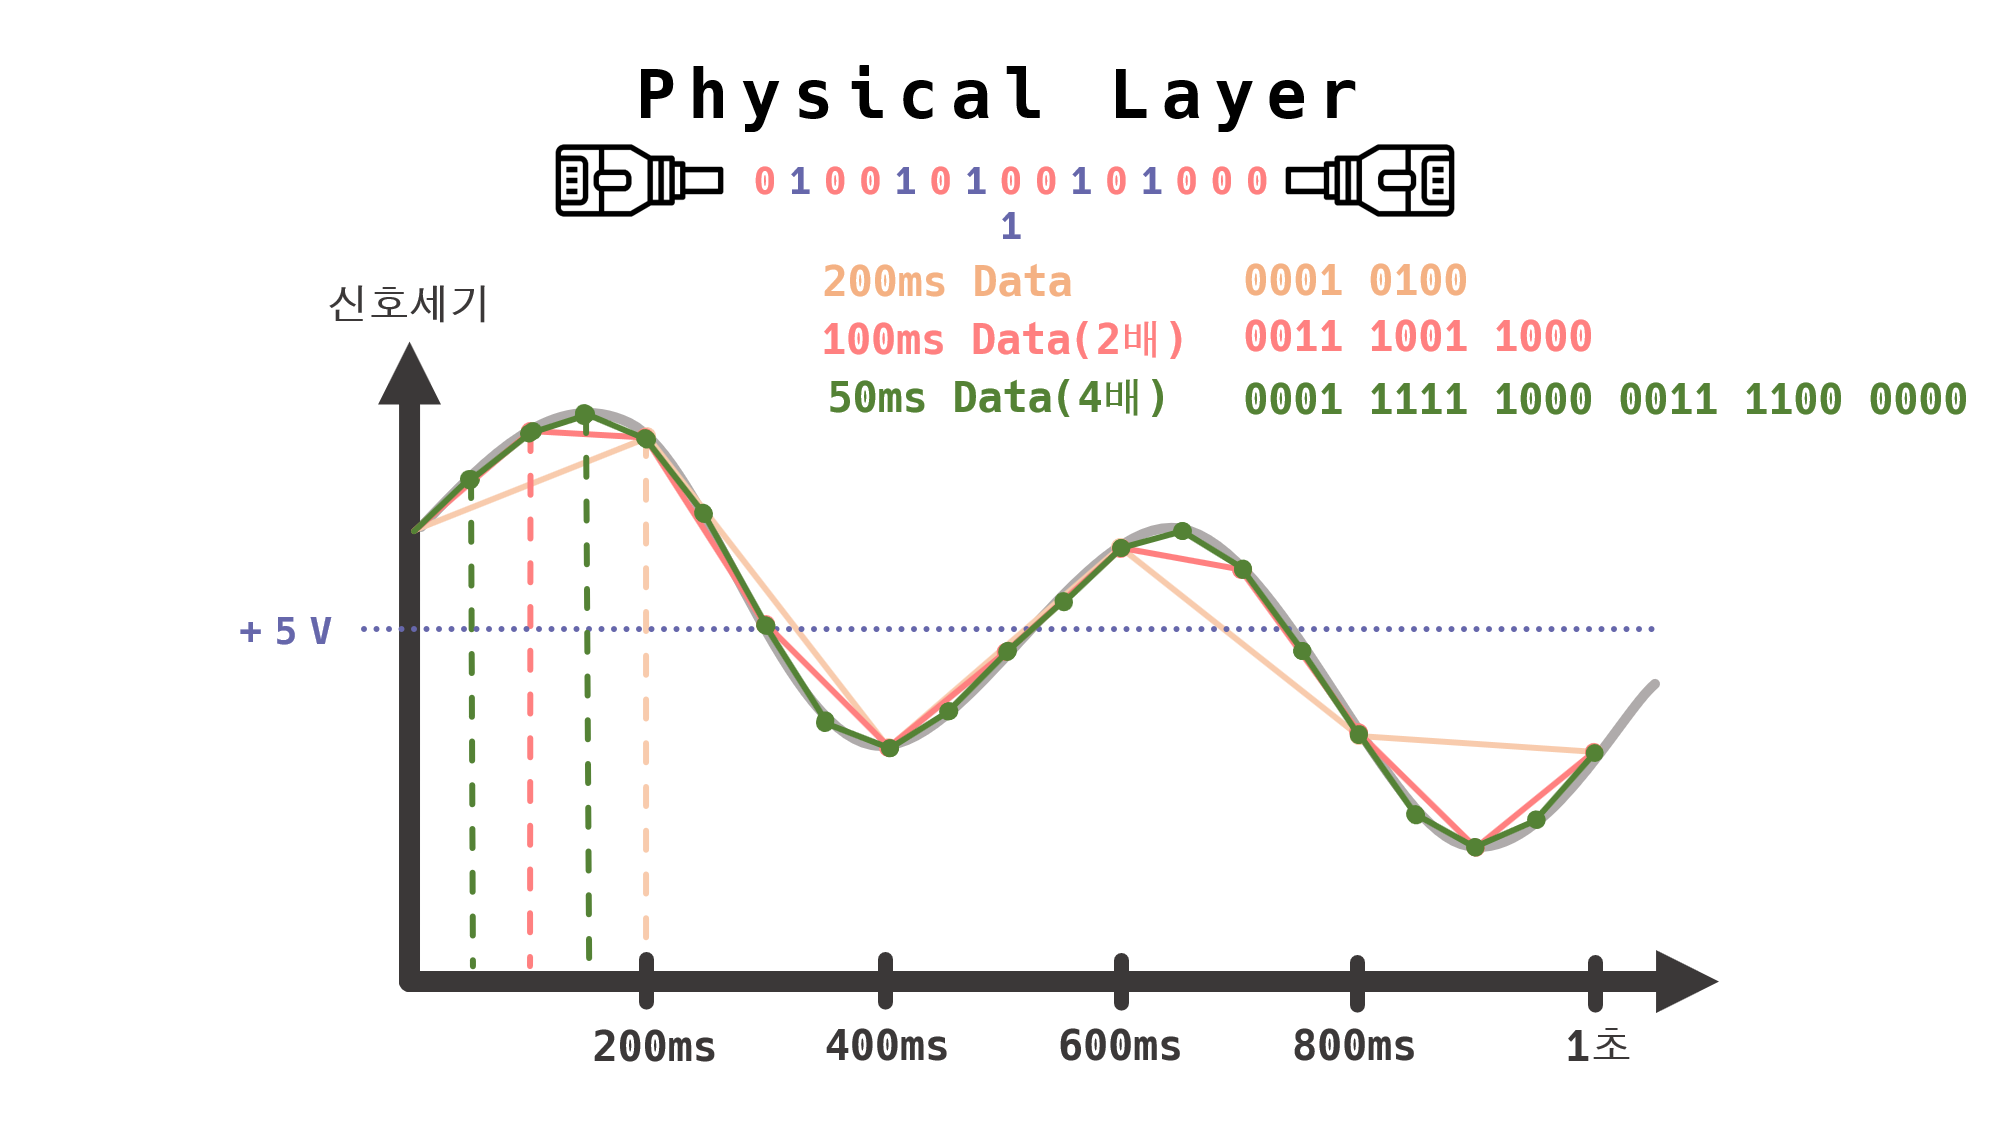
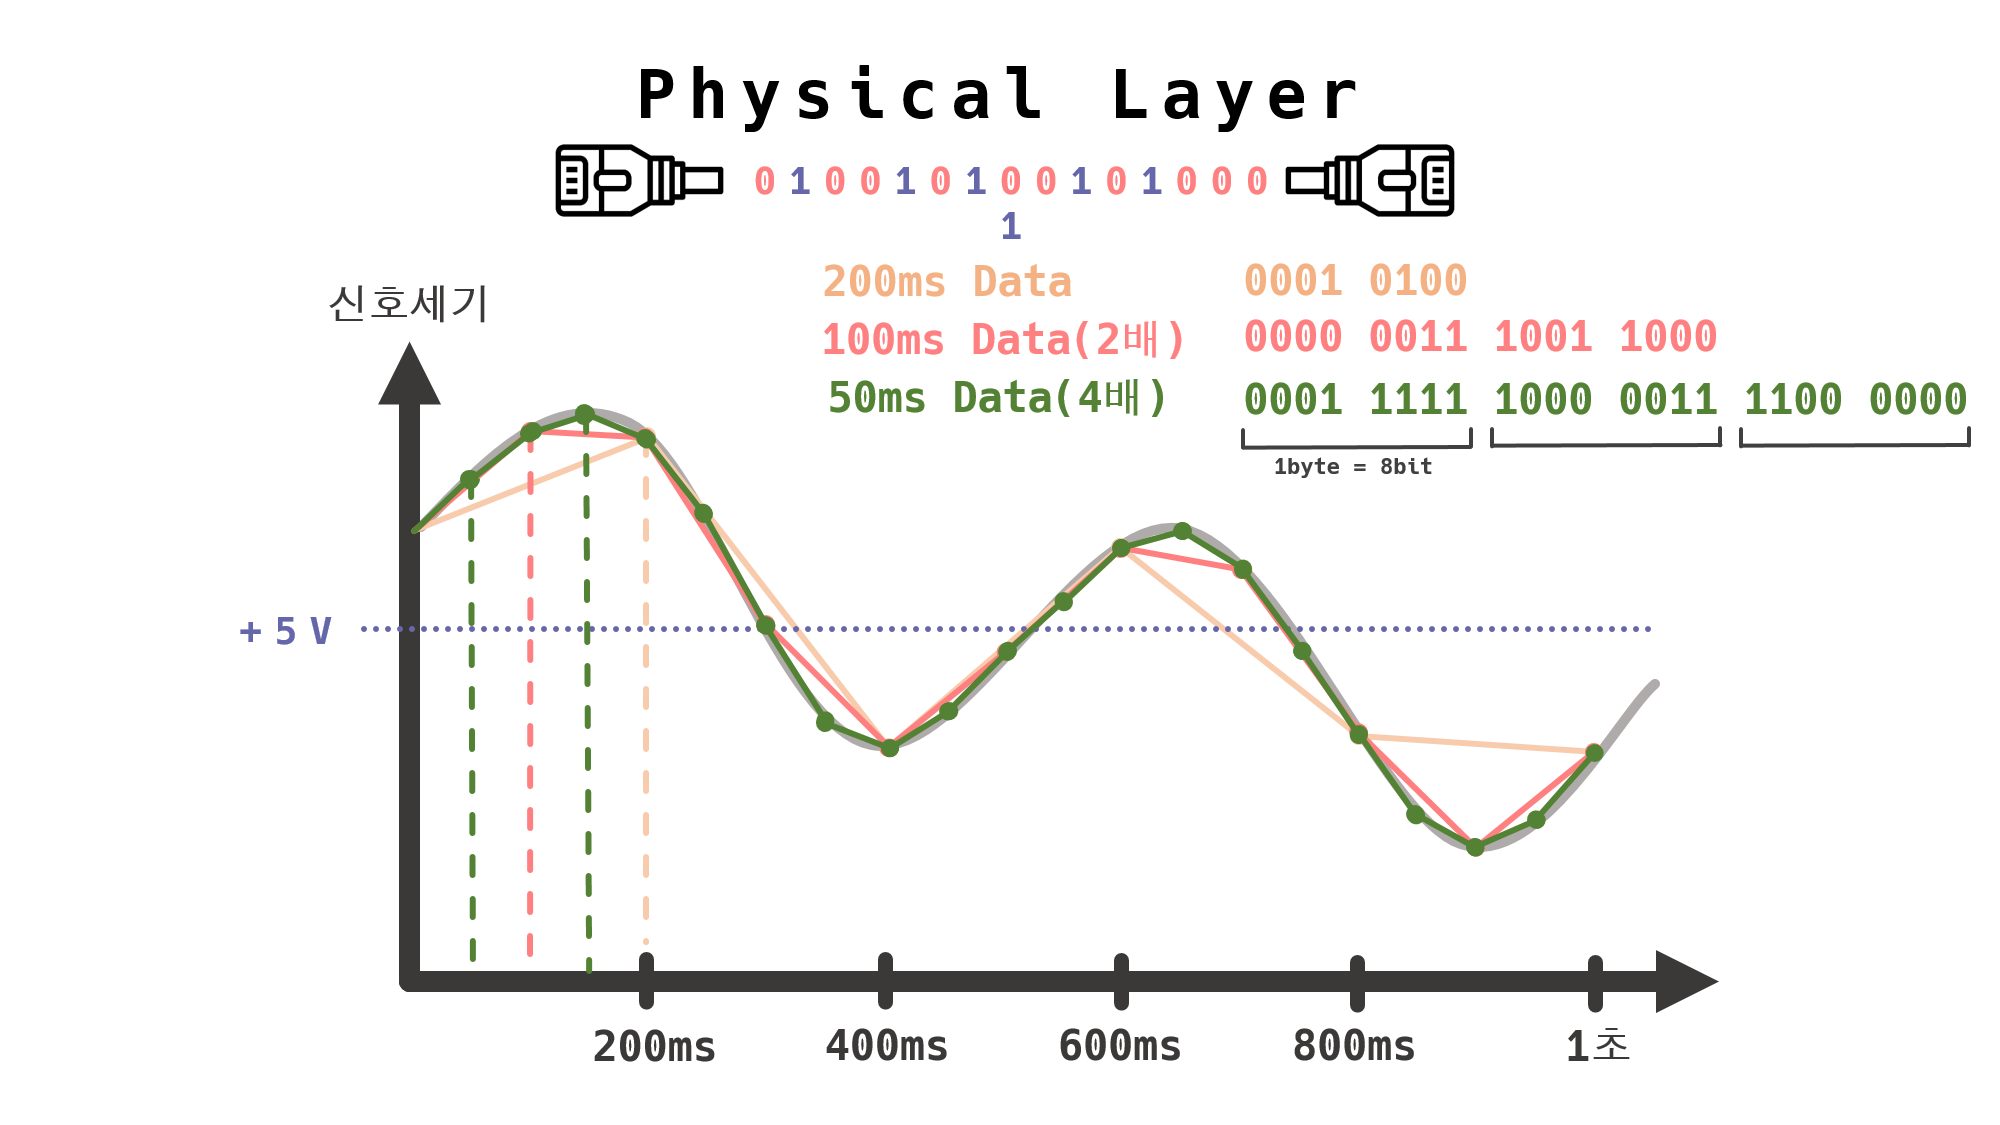
edit osi 7 layer physical layer

diff --git a/_posts/development/client/2023-03-02-osi-7-physical-layer.md b/_posts/development/client/2023-03-02-osi-7-physical-layer.md
@@ -54,6 +54,7 @@ image:
 
 - 우리나라의 허용범위 주파수는 `60Hz`이다.
 - 이유는 [우리나라 주파수는 왜 60Hz일까?](http://www.keaj.kr/news/articleView.html?idxno=3608){:target="_blank"} 자료를 참고해 주시길 바란다.
+  - 간단하게 설명하자면, 우리나라는 그 당시 미국의 영향을 많이 받아 미국 방식을 채택하게 된 것. 
 
 ### 잘못된 데이터 수신
 ![Problem](/assets/img/development/client/2023-03-02/problem_1.png){:.centered width="80%"}
@@ -66,22 +67,33 @@ image:
 
 ### 수직/수평선이 있는 전자기파
 ![Vertical Horizontal_Wave](/assets/img/development/client/2023-03-02/vertical_horizontal_wave.png){:.centered width="80%"}
-> “**그런데, 수직선과 수평선이 있는 전자기파는 항상 0~무한대 Hz의 주파수 범위를 갖는다???**”<br><br>
+> “**그런데, 수직선과 수평선이 있는 전자기파는 항상 0~무한대 Hz의 주파수 범위를 갖는다?**”<br><br>
 > “**수직선과 수평선이 있는 전자기파는 편파(polarized) 전자기파이며, 편파 전자기파는 진폭이 한 방향으로 고정되어 있고, 이러한 편파 전자기파는 하나의 평면에서 전파가 진행된다.**”<br>
 > “**따라서, 수직선과 수평선이 있는 전자기파의 주파수 범위는 항상 0 ~ 무한대(Hz)를 갖는다. 왜냐하면 편파 전자기파는 진폭이 한 방향으로 고정되어 있으며, 주파수는 전파의 진동수를 나타내기 때문이다.**”<br><br>
 > “**따라서, 수직선과 수평선이 있는 전자기파는 특정한 주파수 범위에서만 발생하는 것이 아니라, 전체 주파수 범위에서 발생할 수 있다.**”<br>
 
-- 따라서, 이러한 전기신호를 통과시킬 수 있는 전선은 없다.
+### 무한 vs 유한 전자기파
+![Vertical Horizontal_Wave](/assets/img/development/client/2023-03-02/difference_vertical_horizontal.png){:.centered width="80%"}
+- 위 내용을 나만의 해석을 통해 조금 더 쉽게 이해하자면...
+- 왼쪽 그래프에서는 `0`초에서 `0.1`초의 전압은 `0V`이기 때문에 전자기파가 생겨나지 않는다. 즉, `0Hz`의 주파수를 갖는다.
+- `0.1`초에서부터 `+5V` 이상의 수직적 전압이 발생하여 전자기파가 생겨났다.
+- 시간의 흐름에 따라 서서히 `증가` 또는 `감소`하는 것이 아니라 해당 시간에 `수직`으로 생겨난 전압이기 때문에 `0.1`초에는 **측정 불가한** `무한대의 Hz`를 갖는다. 
+- 오른쪽 그래프에서는 시간에 따라 서서히 전압이 `증가` 또는 `감소`하는 것을 볼 수 있다.
+- 따라서, 왼쪽 그래프는 시간이 변하지 않고 해당 시간에 수직적이고 무한한 전압이 생성되었기 때문에 **측정 불가한 `무한대의 Hz`를 갖는 전자기파**가 생성된다.
+- 오른쪽 그래프는 시간에 따라 변화하는 전압이 발생하므로 **측정 가능한 `유한대의 Hz`를 갖는 전자기파**가 생성된다.
+
+- 결론은, 이러한 `무한한 Hz`의 전기신호를 통과시킬 수 있는 전선은 없다.
 - 그렇다면 `0`과 `1`의 신호를 어떻게 전송해야 할까?
 
 ### 디지털 신호를 아날로그 신호로
 ![Digital to Analog](/assets/img/development/client/2023-03-02/digital_to_analog.png){:.centered width="80%"}
-> “**디지털 신호를 아날로그 신호로 바꿔서 전송해야 한다.**”<br>
+> “**디지털 신호를 아날로그 신호로 바꿔서 전송해야 한다.**”
 
 #### 아날로그 신호의 특징
 - 아날로그 신호는 끊김 없이 연속된 신호로 이루어져 있다.
 - 신호의 세기를 아주 정밀하게 표현이 가능하다.
 - 거리에 따라 신호의 세기가 약해지면서 결국 소멸되는 특징을 가지고 있다.
+- 전자기파의 스펙트럼을 통해 다양한 데이터들을 송/수신할 수 있게 되었다.
 
 #### 디지털 신호의 특징
 - 디지털 신호는 `1`로 표현하고 싶을 땐 특정 전압 이상을 가하고, `0`으로 표현하고 싶을 땐 특정 전압의 이하로 가해 표현한다.
@@ -95,10 +107,13 @@ image:
 
 ### 아날로그 신호의 데이터화
 ![Data Collection Graph](/assets/img/development/client/2023-03-02/data_collection_graph.png){:.centered width="80%"}
+> “**`1byte`**는 **`8bit`**이다.”
+
 - 위 그래프는 `1초` 동안 발생한 아날로그 신호를 디지털 신호로 해석한 그래프이다.
-- `1초`의 시간을 촘촘히 측정할 수 있게 된다면 
-- 즉, 조금 더 촘촘히 많은 데이터를 수집할 수 록 `아날로그` 데이터에 굉장히 가까워진다.
-- 아무리 `아날로그 신호`를 `디지털 신호`로 바꾸어도 어쩔 수 없이 데이터 왜곡은 생기기 마련이다.
+- 위 그래프에서 볼 수 있듯이 `200ms`는 `1btye`의 데이터를, `100ms`는 `2btye`의 데이터를, `50ms`는 `3btye`의 데이터를 수집할 수 있는 것을 볼 수 있다.
+- `1초`의 시간을 촘촘히 측정할 수 있게 된다면 더 많은 양의 데이터를 주고받을 수 있게 된다.
+- 또한, 조금 더 촘촘히 많은 데이터를 수집할 수 록 `아날로그` 데이터에 굉장히 가까워진다.
+- 하지만, 아무리 `아날로그 신호`를 `디지털 신호`로 바꾸어도 어쩔 수 없이 데이터 왜곡은 생기기 마련이다.
 
 #### 가정에서 많이 사용하는 CAT5.E Cable
 ![CAT.5E Cable](/assets/img/development/client/2023-03-02/cat5e_cable.png){:.centered width="80%"}

diff --git a/_posts/dailylog/routine/2023/04-april/2023-03-27-week-11th.md b/_posts/dailylog/routine/2023/04-april/2023-03-27-week-11th.md
@@ -26,7 +26,12 @@ image:
 - 어제 퇴근 후 이번 주 있을 발표자료 미비된 준비하고 아침에 출근 해서 마지막 미비된 부분을 수정하였다.
 
 # 2023-3-29
-# 2023-3-30
+![2023-03-29](/assets/img/daily/routine/2023/2023-04-02/2023-03-29_myroutine.png){:.centered width="100%"}
+- 오들여 역시 영한 님, 재성 님과 함께 출근 하였다.
+- 어제 퇴근 후 이번 주 있을 스터디 발표 자료를 만드느라 1시쯤 잔거 같다😂
+
+
+# 2023-3-30 스터디 발표
 # 2023-3-31
 # 2023-4-01
 # 2023-4-02
